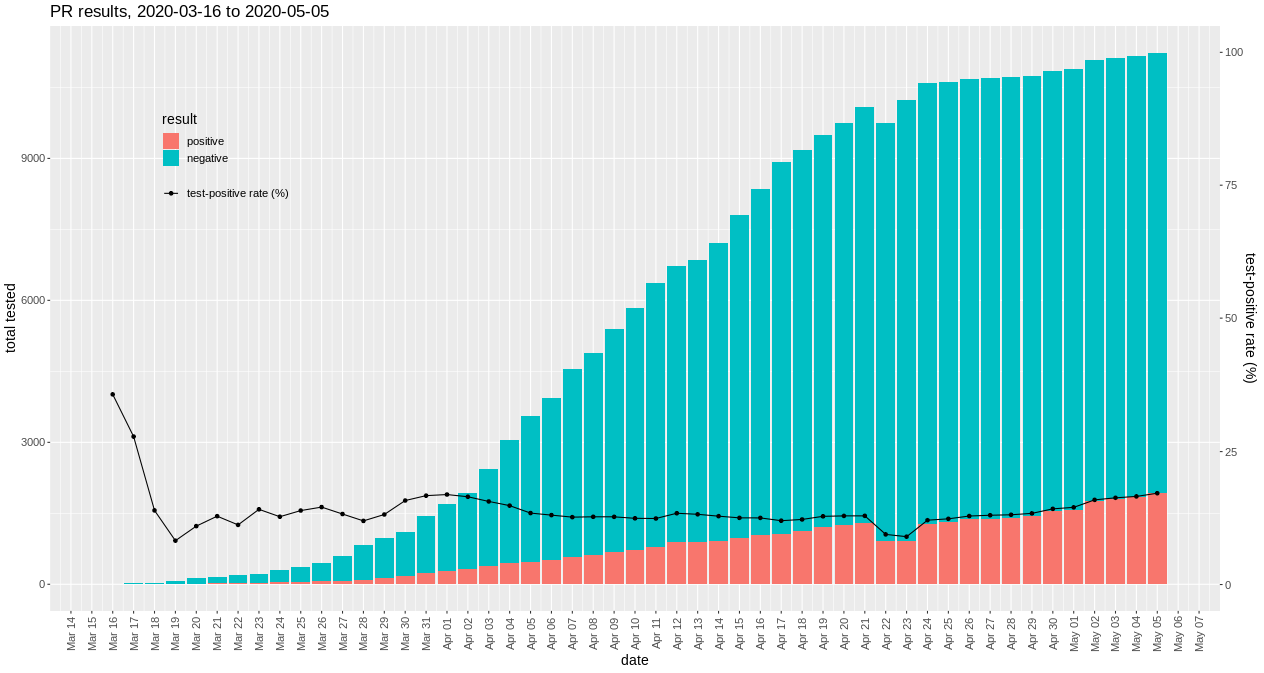
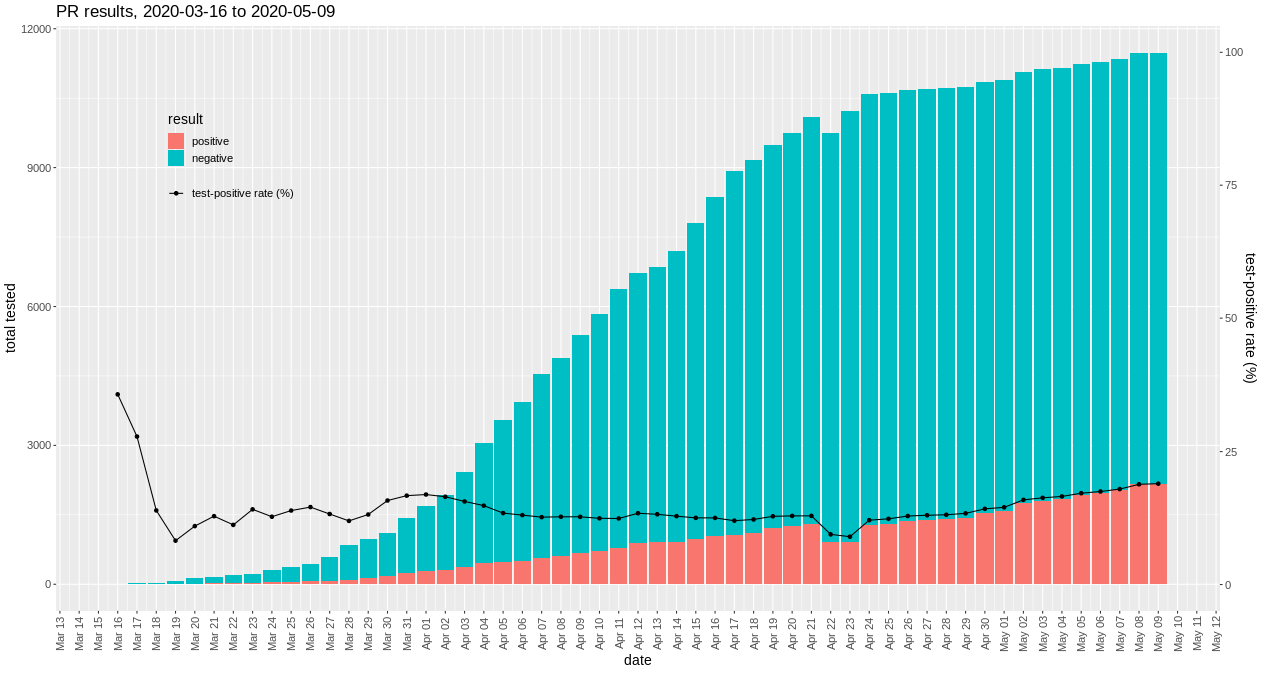
05/09/2020 19:21:36 PDT autoupdate. Beep boop.

diff --git a/README.md b/README.md
@@ -62,5 +62,6 @@ Test results by state, ordered by decreasing numbers of tests
 ![alt text](https://github.com/aaronferrucci/c19_data/blob/master/images/WY_test_results.png "WY test results")
 ![alt text](https://github.com/aaronferrucci/c19_data/blob/master/images/GU_test_results.png "GU test results")
 ![alt text](https://github.com/aaronferrucci/c19_data/blob/master/images/MP_test_results.png "MP test results")
+![alt text](https://github.com/aaronferrucci/c19_data/blob/master/images/PR_test_results.png "PR test results")
 ![alt text](https://github.com/aaronferrucci/c19_data/blob/master/images/VI_test_results.png "VI test results")
 ![alt text](https://github.com/aaronferrucci/c19_data/blob/master/images/AS_test_results.png "AS test results")
